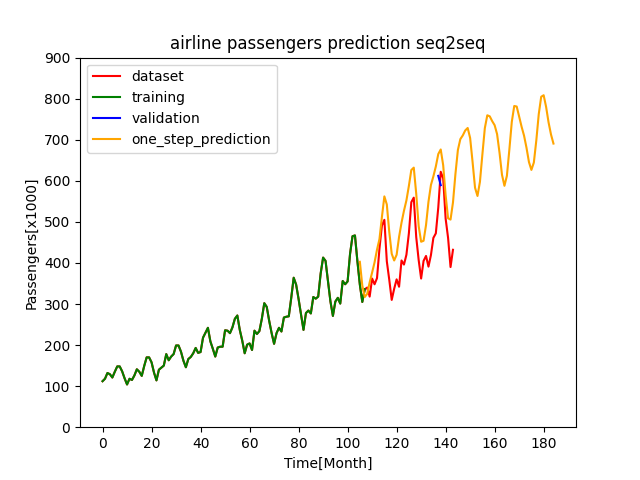
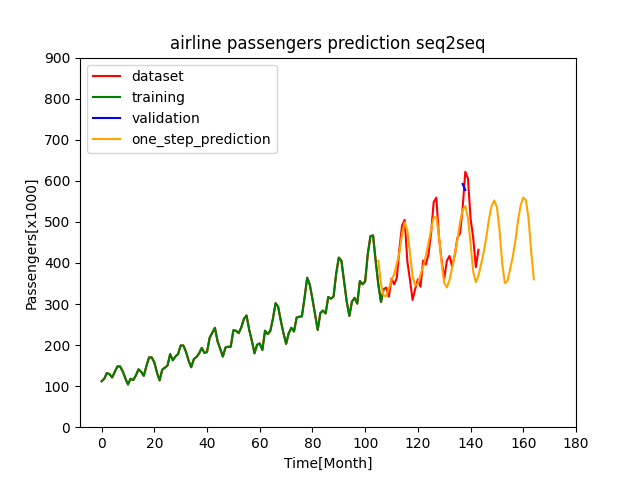
update airline_passengers_keras_seq2seq

diff --git a/TimeSeriesPrediction/UnivariatTimeSeriesForecast/AirlinePassengers/Keras/workflows/airline_passengers_keras_seq2seq_workflow.py b/TimeSeriesPrediction/UnivariatTimeSeriesForecast/AirlinePassengers/Keras/workflows/airline_passengers_keras_seq2seq_workflow.py
@@ -3,14 +3,15 @@ import numpy as np
 from sklearn.preprocessing import MinMaxScaler
 from TimeSeriesPrediction.UnivariatTimeSeriesForecast.AirlinePassengers.airline_passengers_utilities import *
 from keras import optimizers
+from keras.callbacks import EarlyStopping
 
-EPOCHS = 600
+EPOCHS = 1000
 LEARNING_RATE = 0.001
-BATCH_SIZE = 32
+BATCH_SIZE = 1
 LOOK_BACK = 30
 LOOK_OUT = 3
 PREDICTION_START = -1
-NUMBER_OF_PREDICTIONS = 80
+NUMBER_OF_PREDICTIONS = 60
 
 
 def workflow(model, name):
@@ -29,8 +30,10 @@ def workflow(model, name):
     test_timeseries = test_timeseries.reshape(test_timeseries.shape[0], test_timeseries.shape[2], test_timeseries.shape[1])
     test_targets_series = test_targets.reshape(test_targets.shape[0], test_targets.shape[2], test_targets.shape[1])
 
+    early_stopping = EarlyStopping(monitor='loss', patience=75, verbose=1, restore_best_weights=True)
+
     model.compile(optimizer=optimizers.Adam(LEARNING_RATE), loss='mean_squared_error')
-    model.fit([train_timeseries, np.zeros_like(train_targets_series)], train_targets_series, epochs=EPOCHS, batch_size=BATCH_SIZE)
+    model.fit([train_timeseries, np.zeros_like(train_targets_series)], train_targets_series, epochs=EPOCHS, batch_size=BATCH_SIZE, callbacks=[early_stopping])
 
     validation_results = validation_forecast(model, [test_timeseries, test_targets_series])
     validation = pd.DataFrame()
